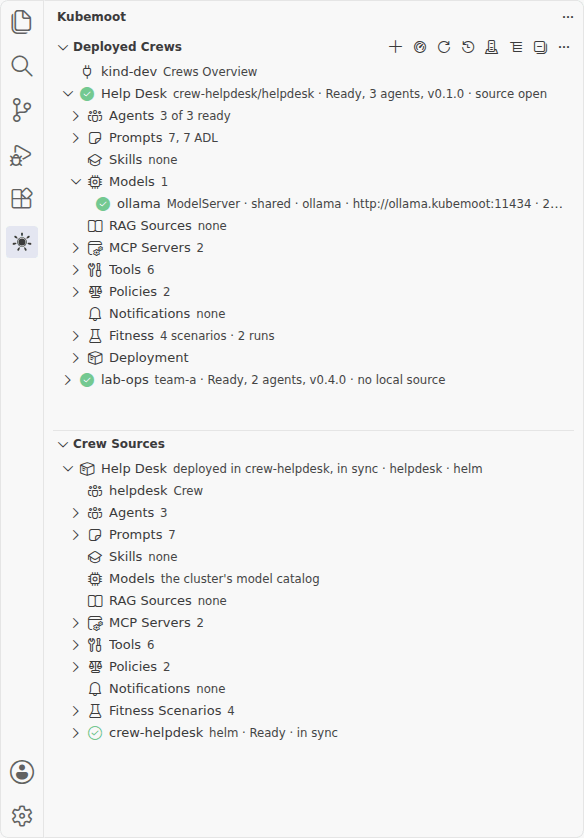
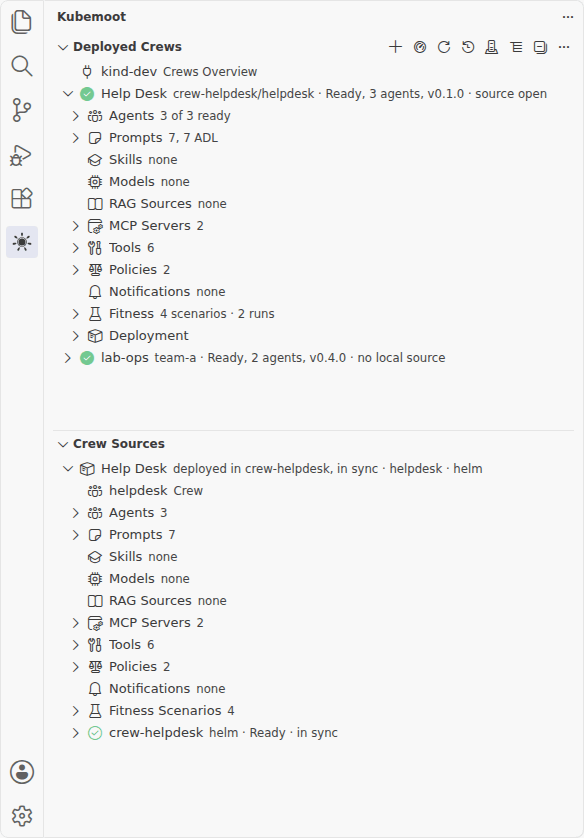
feat: Create Crew needs kmctl 0.19.0
The wizard and its version check now require kmctl 0.19.0, whose scaffold
selects models from the cluster's catalog. The README screenshot is
regenerated from a 0.19.0 scaffold.

Changed region(s): [[0.1233, 0.1862, 0.7705, 0.4654], [0.4315, 0.2172, 0.9247, 0.2482], [0.2774, 0.6826, 0.5548, 0.7136]]

diff --git a/test/createCrew.test.ts b/test/createCrew.test.ts
@@ -20,7 +20,7 @@ beforeEach(() => {
   resetFake();
   ran = [];
   answer = { code: 0, stdout: 'Scaffolded', stderr: '' };
-  version = { code: 0, stdout: '0.15.0\n', stderr: '' };
+  version = { code: 0, stdout: '0.19.0\n', stderr: '' };
   help = { code: 0, stdout: 'Flags:\n      --display-name string   The name people read\n', stderr: '' };
 });
 
@@ -40,14 +40,14 @@ describe('kmctl version check', () => {
     expect(parseVersion('0.12.0+')).toBeUndefined();
   });
 
-  it('needs the first kmctl build with --display-name: 0.15.0-rc.4, named to the user as 0.15.0', async () => {
-    expect(parseVersion(KMCTL_MIN_VERSION)).toEqual({ release: [0, 15, 0], prerelease: [] });
-    expect(parseVersion(KMCTL_MIN_BUILD)).toEqual({ release: [0, 15, 0], prerelease: ['rc', 4] });
-    for (const old of ['0.14.1', '0.15.0-rc.0', 'v0.15.0-rc.3', '0.15.0-alpha', '0.15.0-rc']) {
+  it('needs the first kmctl build of the catalog scaffold: 0.19.0-rc.1, named to the user as 0.19.0', async () => {
+    expect(parseVersion(KMCTL_MIN_VERSION)).toEqual({ release: [0, 19, 0], prerelease: [] });
+    expect(parseVersion(KMCTL_MIN_BUILD)).toEqual({ release: [0, 19, 0], prerelease: ['rc', 1] });
+    for (const old of ['0.14.1', '0.15.0', '0.18.0', 'v0.18.1-rc.2', '0.19.0-rc.0', '0.19.0-alpha', '0.19.0-rc']) {
       version = { code: 0, stdout: `${old}\n`, stderr: '' };
-      expect(await kmctlProblem(exec), old).toContain(`needs kmctl 0.15.0 or later (for the starter crew); found kmctl ${old.trim()}`);
+      expect(await kmctlProblem(exec), old).toContain(`needs kmctl 0.19.0 or later (for the starter crew); found kmctl ${old.trim()}`);
     }
-    for (const ok of ['0.15.0-rc.4-3-gabc', '0.15.0-rc.4', 'v0.15.0-rc.5', '0.15.0-rc.10', 'v0.15.0', '0.15.1-rc.0', '0.16.0-rc.0']) {
+    for (const ok of ['0.19.0-rc.1-3-gabc', '0.19.0-rc.1', 'v0.19.0-rc.5', '0.19.0-rc.13', 'v0.19.0', '0.19.1-rc.0', '0.20.0-rc.0']) {
       version = { code: 0, stdout: `${ok}\n`, stderr: '' };
       expect(await kmctlProblem(exec), ok).toBeUndefined();
     }
@@ -81,7 +81,7 @@ describe('kmctl version check', () => {
 
   it('accepts a new enough or development kmctl', async () => {
     expect(await kmctlProblem(exec)).toBeUndefined();
-    version = { code: 0, stdout: '0.15.2\n', stderr: '' };
+    version = { code: 0, stdout: '0.19.2\n', stderr: '' };
     expect(await kmctlProblem(exec)).toBeUndefined();
     version = { code: 0, stdout: 'dev\n', stderr: '' };
     expect(await kmctlProblem(exec)).toBeUndefined();
@@ -93,8 +93,8 @@ describe('kmctl version check', () => {
     expect(await kmctlProblem(exec)).toBe(
       'Creating a crew needs a kmctl whose create command takes --display-name, which stores the name people read; found kmctl dev. Install a current release from https://github.com/kubemoot/kmctl/releases',
     );
-    version = { code: 0, stdout: '0.15.0\n', stderr: '' };
-    expect(await kmctlProblem(exec)).toContain('found kmctl 0.15.0');
+    version = { code: 0, stdout: '0.19.0\n', stderr: '' };
+    expect(await kmctlProblem(exec)).toContain('found kmctl 0.19.0');
     help = { code: 1, stdout: '', stderr: 'unknown command' };
     expect(await kmctlProblem(exec)).toContain('takes --display-name');
     help = { code: 0, stdout: '  --display-name string\n', stderr: '' };
@@ -104,10 +104,10 @@ describe('kmctl version check', () => {
   it('names the version found, the one needed, and where to get it', async () => {
     version = { code: 0, stdout: '0.13.0\n', stderr: '' };
     expect(await kmctlProblem(exec)).toBe(
-      'Creating a crew needs kmctl 0.15.0 or later (for the starter crew); found kmctl 0.13.0. Install a current release from https://github.com/kubemoot/kmctl/releases',
+      'Creating a crew needs kmctl 0.19.0 or later (for the starter crew); found kmctl 0.13.0. Install a current release from https://github.com/kubemoot/kmctl/releases',
     );
     version = { code: 127, stdout: '', stderr: 'not found' };
-    expect(await kmctlProblem(exec)).toMatch(/needs kmctl 0\.15\.0 or later on your PATH, and none was found\. Install it from https:\/\/github\.com\/kubemoot\/kmctl\/releases/);
+    expect(await kmctlProblem(exec)).toMatch(/needs kmctl 0\.19\.0 or later on your PATH, and none was found\. Install it from https:\/\/github\.com\/kubemoot\/kmctl\/releases/);
     version = { code: 1, stdout: '', stderr: 'unknown flag: --short' };
     expect(await kmctlProblem(exec)).toMatch(/`kmctl version` failed: unknown flag: --short/);
     version = { code: 2, stdout: 'odd', stderr: '' };
@@ -136,7 +136,7 @@ describe('scaffoldCrew', () => {
 
   it('says how to get kmctl when it is missing, and passes its errors on', async () => {
     answer = { code: 127, stdout: '', stderr: 'kmctl was not found on PATH' };
-    await expect(scaffoldCrew(exec, { name: 'demo', displayName: 'demo', parent: '/w', members: 1 })).rejects.toThrow('needs kmctl 0.15.0 or later on your PATH, and none was found');
+    await expect(scaffoldCrew(exec, { name: 'demo', displayName: 'demo', parent: '/w', members: 1 })).rejects.toThrow('needs kmctl 0.19.0 or later on your PATH, and none was found');
     answer = { code: 1, stdout: '', stderr: 'directory "/w/demo" already exists\n' };
     await expect(scaffoldCrew(exec, { name: 'demo', displayName: 'demo', parent: '/w', members: 1 })).rejects.toThrow('kmctl create failed: directory "/w/demo" already exists');
   });
@@ -283,7 +283,7 @@ describe('createCrewCommand', () => {
     recorded.workspaceFolders = [{ name: 'crews', uri: Uri.file('/w') }];
     version = { code: 127, stdout: '', stderr: 'kmctl was not found on PATH' };
     await run();
-    expect(recorded.modalErrors).toEqual(['Creating a crew needs kmctl 0.15.0 or later on your PATH, and none was found. Install it from https://github.com/kubemoot/kmctl/releases']);
+    expect(recorded.modalErrors).toEqual(['Creating a crew needs kmctl 0.19.0 or later on your PATH, and none was found. Install it from https://github.com/kubemoot/kmctl/releases']);
     expect(ran).toEqual([]);
   });
 

diff --git a/src/create/scaffold.ts b/src/create/scaffold.ts
@@ -23,15 +23,15 @@ export function createArgs(request: CreateCrewRequest, context?: string): string
   return args;
 }
 
-/** The kmctl release whose `create` takes `--display-name` and scaffolds the starter crew, as named to the user. */
-export const KMCTL_MIN_VERSION = '0.15.0';
+/** The kmctl release whose `create` takes `--display-name` and scaffolds crews that select models from the cluster's catalog, as named to the user. */
+export const KMCTL_MIN_VERSION = '0.19.0';
 
 /**
- * The first kmctl build whose `create` takes `--display-name`: release candidate
- * 0.15.0-rc.4. By semver precedence 0.15.0-rc.0 < 0.15.0-rc.4 < 0.15.0, so earlier
- * candidates are refused, while rc.4, later candidates, and every release pass.
+ * The first kmctl build of that release: candidate 0.19.0-rc.1. By semver precedence
+ * 0.19.0-rc.0 < 0.19.0-rc.1 < 0.19.0, so 0.18.x and earlier are refused, while the
+ * candidates of 0.19.0 from rc.1 on, and every later release, pass.
  */
-export const KMCTL_MIN_BUILD = '0.15.0-rc.4';
+export const KMCTL_MIN_BUILD = '0.19.0-rc.1';
 
 export const KMCTL_RELEASES = 'https://github.com/kubemoot/kmctl/releases';
 

diff --git a/README.md b/README.md
@@ -14,7 +14,7 @@ and run its fitness scenarios, all from the editor.
 It works through your kubeconfig, the same way `kmctl` does: any cluster your `kubectl` can
 reach works, no crew needs a public address, and no extra credential is involved.
 
-![The Kubemoot view in VS Code: Deployed Crews lists the Help Desk crew (helpdesk in crew-helpdesk) with its Models open, showing the shared ollama ModelServer whose model catalog the crew selects from, and Crew Sources lists its chart in the workspace, deployed and in sync, with the same groups.](docs/screenshots/views.png)
+![The Kubemoot view in VS Code: Deployed Crews lists the Help Desk crew (helpdesk in crew-helpdesk) with its agents, prompts, MCP servers, tools, and policies, and no Models of its own because the crew selects from the cluster's catalog, and Crew Sources lists its chart in the workspace, deployed and in sync, with the same groups.](docs/screenshots/views.png)
 
 ## Install
 
